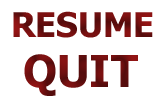
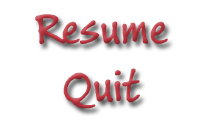
main menu and exit action

diff --git a/app/src/main/java/com/barleybreak/screen/GameScreen.java b/app/src/main/java/com/barleybreak/screen/GameScreen.java
@@ -99,15 +99,15 @@ public class GameScreen extends Screen {
         for(int i = 0; i < len; i++) {
             TouchEvent event = touchEvents.get(i);
             if(event.type == Input.TouchEvent.TOUCH_UP) {
-                if(event.x > 80 && event.x <= 240) {
-                    if(event.y > 100 && event.y <= 148) {
+                if(event.x > 60 && event.x <= 240) {
+                    if(event.y > 175 && event.y <= 225) {
                         if(Settings.soundEnabled)
                             Assets.click.play(1);
                         state = GameState.Running;
                         return;
                     }
 
-                    if(event.y > 148 && event.y < 196) {
+                    if(event.y > 235 && event.y < 285) {
                         if(Settings.soundEnabled)
                             Assets.click.play(1);
                         game.setScreen(new MainMenuScreen(game));
@@ -187,7 +187,7 @@ public class GameScreen extends Screen {
 
     private void drawPausedUI() {
         Graphics g = game.getGraphics();
-        g.drawPixmap(Assets.pause, 80, 100);
+        g.drawPixmap(Assets.pause, 60, 175);
         g.drawLine(0, 416, 480, 416, Color.BLACK);
     }
 
